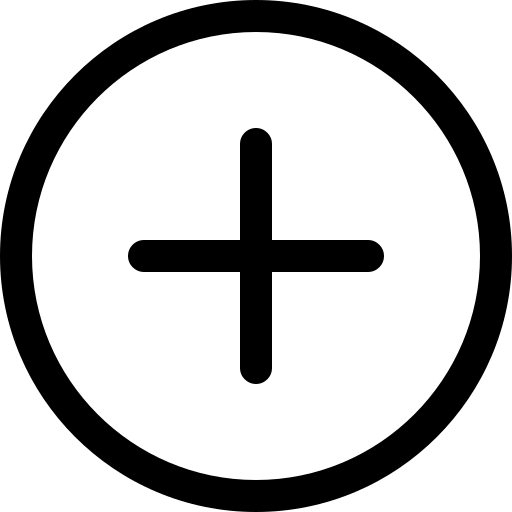
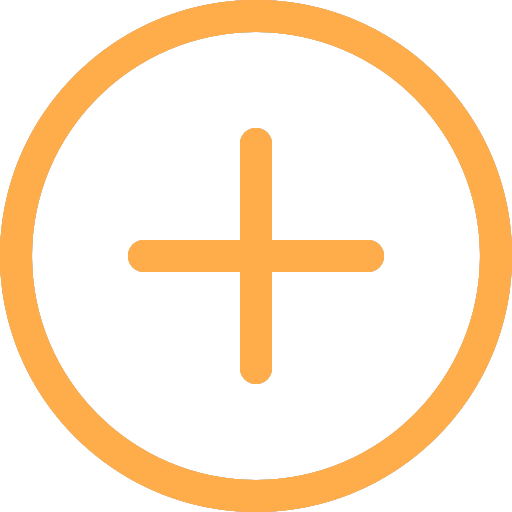
estilizacao pag de tarefas, iniciando

Changed region(s): [[0.0, 0.0, 1.0, 1.0], [0.25, 0.25, 0.75, 0.75]]

diff --git a/styles/tarefas.css b/styles/tarefas.css
@@ -1,7 +1,12 @@
 @import url("./common.css");
+
 header {
   display: flex;
-  background: linear-gradient(90deg, var(--primary), var(--secondary));
+  background: linear-gradient(
+    45deg,
+    var(--primary),
+    var(--secondary)
+  ); /* Alteração: Roberto */
   box-shadow: 0px 3px 5px lightgrey;
   padding: 0 3em;
   margin-bottom: 2em;
@@ -25,6 +30,7 @@ a {
 
 .user-info p {
   text-transform: capitalize;
+  color: var(--app-cta); /* Alteração: Roberto */
 }
 
 .user-info .user-image {
@@ -38,8 +44,9 @@ a {
 
 #closeApp {
   margin-left: 15px;
-  font-size: 0.7em;
-  background-color: rgb(218, 88, 88);
+  font-size: 0.6em; /* Alteração: Roberto */
+  background-color: var(--app-cta); /* Alteração: Roberto */
+  text-transform: uppercase;
   color: white;
   border-radius: 50vh;
   padding: 5px 10px;
@@ -52,12 +59,13 @@ a {
   position: relative;
   display: flex;
   align-items: center;
-  background-color: white;
+  background-color: var(--primary); /* Alteração: Roberto */
+  color: #fff;
   width: 80%;
   margin: 0 10%;
   padding: 1em;
   box-shadow: 2px 2px 10px lightgrey;
-  border-radius: 0.2em;
+  border-radius: 0.4em; /* Alteração: Roberto */
   z-index: 20;
 }
 
@@ -68,6 +76,12 @@ a {
   border-radius: 0;
   padding: 0.3em;
   font-size: 1.1em;
+  background-color: var(--primary); /* Alteração: Roberto */
+  color: #fff; /* Alteração: Roberto */
+}
+
+.nova-tarefa input[type="radio"] {
+  margin-left: 10px; /* Alteração: Roberto */
 }
 
 .nova-tarefa input:focus {
@@ -102,7 +116,7 @@ a {
 .not-done {
   width: 2em;
   height: 2em;
-  background-color: var(--app-grey);
+  background-color: #ffac4a;
   margin-right: 1em;
   border-radius: 50%;
   cursor: pointer;
@@ -130,7 +144,7 @@ a {
   position: relative;
   height: 1.5em;
   width: 1.5em;
-  background-color: white;
+  background-color: #ffac4a;
   box-shadow: 2px 2px 5px lightgrey;
   border: 2px solid var(--secondary);
   z-index: 2;
@@ -138,7 +152,7 @@ a {
 }
 
 .tarefa .not-done:hover {
-  background-color: var(--secondary);
+  background-color: var(--primary);
 }
 
 .tarefa:first-child .not-done::before {
@@ -189,10 +203,10 @@ a {
   width: 8em;
   text-align: center;
   padding: 0.5em 1em;
-  background-color: white;
-  border-radius: 0.2em;
+  background-color: #433563; /* Alteração: Roberto */
+  border-radius: 0.4em; /* Alteração: Roberto */
   box-shadow: 3px 3px 5px lightgrey;
-  color: rgb(170, 170, 170);
+  color: #fff; /* Alteração: Roberto */
   font-weight: 400;
   font-size: 1.1em;
   margin-left: calc(15% - 4em);
@@ -260,6 +274,10 @@ a {
 }
 
 #completar {
+  height: 16px;
+}
+
+#completar img {
   height: 1em;
   width: 1em;
   background-color: transparent;
@@ -267,6 +285,33 @@ a {
   margin-right: 1em;
   opacity: 0.5;
   cursor: pointer;
+}
+
+#comentario {
+  position: relative;
+  top: -34px;
+  left: 32px;
+  padding: 2px;
+  line-height: 20px;
+  background: #ffac4a;
+  color: rgb(24, 21, 21);
+  display: block;
+  width: 77px;
+  opacity: 0;
+  font-size: smaller;
+  text-align: center;
+  z-index: 1;
+  border-radius: 0.4em;
+
+  -webkit-transition: all 300ms ease;
+  -moz-transition: all 300ms ease;
+  -ms-transition: all 300ms ease;
+  -o-transition: all 300ms ease;
+  transition: all 300ms ease;
+}
+
+#completar:hover #comentario {
+  opacity: 1;
 }
 
 @keyframes trasparencia {

diff --git a/scripts/tarefas/tarefasPendentes.js b/scripts/tarefas/tarefasPendentes.js
@@ -12,10 +12,15 @@ function mostraTarefasPendentes(tarefa) {
             <p class="nome">${tarefa.description}</p>
             <p class="timestamp"><i class="far fa-calendar-alt"></i>${tarefa.createdAt}</p>
          </div>
-         <img id="lixeira" src="/ToDo-App/assets/bin.png" onclick="deletarTarefa(${tarefa.id}, ${tarefa.completed})">
-         <img id="completar" src="/ToDo-App/assets/completar.png" onclick="alterarStatus(${tarefa.id}, '${tarefa.description}', ${tarefa.completed})" onclick="mostraTarefasTerminadas()">
+        <div id="completar">
+            <img src="/ToDo-App/assets/completar.png" onclick="alterarStatus(${tarefa.id}, '${tarefa.description}', ${tarefa.completed})" onclick="mostraTarefasTerminadas()">
+            <div id="comentario">Completar tarefa</div>
+        </div>
+        <img id="lixeira" src="/ToDo-App/assets/bin.png" onclick="deletarTarefa(${tarefa.id}, ${tarefa.completed})">
+                  
     `
     //como a tarefa.description é uma string, ela teve que ser concatenada com o resto com aspas sinmples
 
     tarefasPendentes.appendChild(liTarefasPendentes)
 }
+

diff --git a/scripts/tarefas/tarefasTerminadas.js b/scripts/tarefas/tarefasTerminadas.js
@@ -13,8 +13,9 @@ function mostraTarefasTerminadas(tarefa) {
             <p class="nome">${tarefa.description}</p>
             <p class="timestamp"><i class="far fa-calendar-alt"></i>${tarefa.createdAt}</p>
         </div>
+        <img id="enviarPendente" src="/ToDo-App/assets/reload.png" onclick="alterarStatus(${tarefa.id}, '${tarefa.description}', ${tarefa.completed})" onclick="mostraTarefasPendentes()">
         <img id="lixeira" src="/ToDo-App/assets/bin.png" onclick="deletarTarefa(${tarefa.id}, ${tarefa.completed})">
-        <img id="enviarPendente" src="/ToDo-App/assets/completar.png" onclick="alterarStatus(${tarefa.id}, '${tarefa.description}', ${tarefa.completed})" onclick="mostraTarefasPendentes()">
+      
     `
     tarefasTerminadas.appendChild(liTarefas)
 }

diff --git a/styles/common.css b/styles/common.css
@@ -1,9 +1,10 @@
 @import url("https://fonts.googleapis.com/css2?family=Lato:wght@100;300;400&display=swap");
 
 :root {
-  --primary: #6c54a0;
-  --secondary: #8e64c5;
+  --primary: #433563; /* Alteração: Roberto */
+  --secondary: #060933; /* Alteração: Roberto */
   --app-grey: #f2f2f2;
+  --app-cta: #d7790c; /* Alteração: Roberto */
 }
 
 * {

diff --git a/scripts/tarefas/tarefas.js b/scripts/tarefas/tarefas.js
@@ -157,3 +157,4 @@ botaoAddTarefa.addEventListener("click", (evento) => {
     }
 
 });
+
